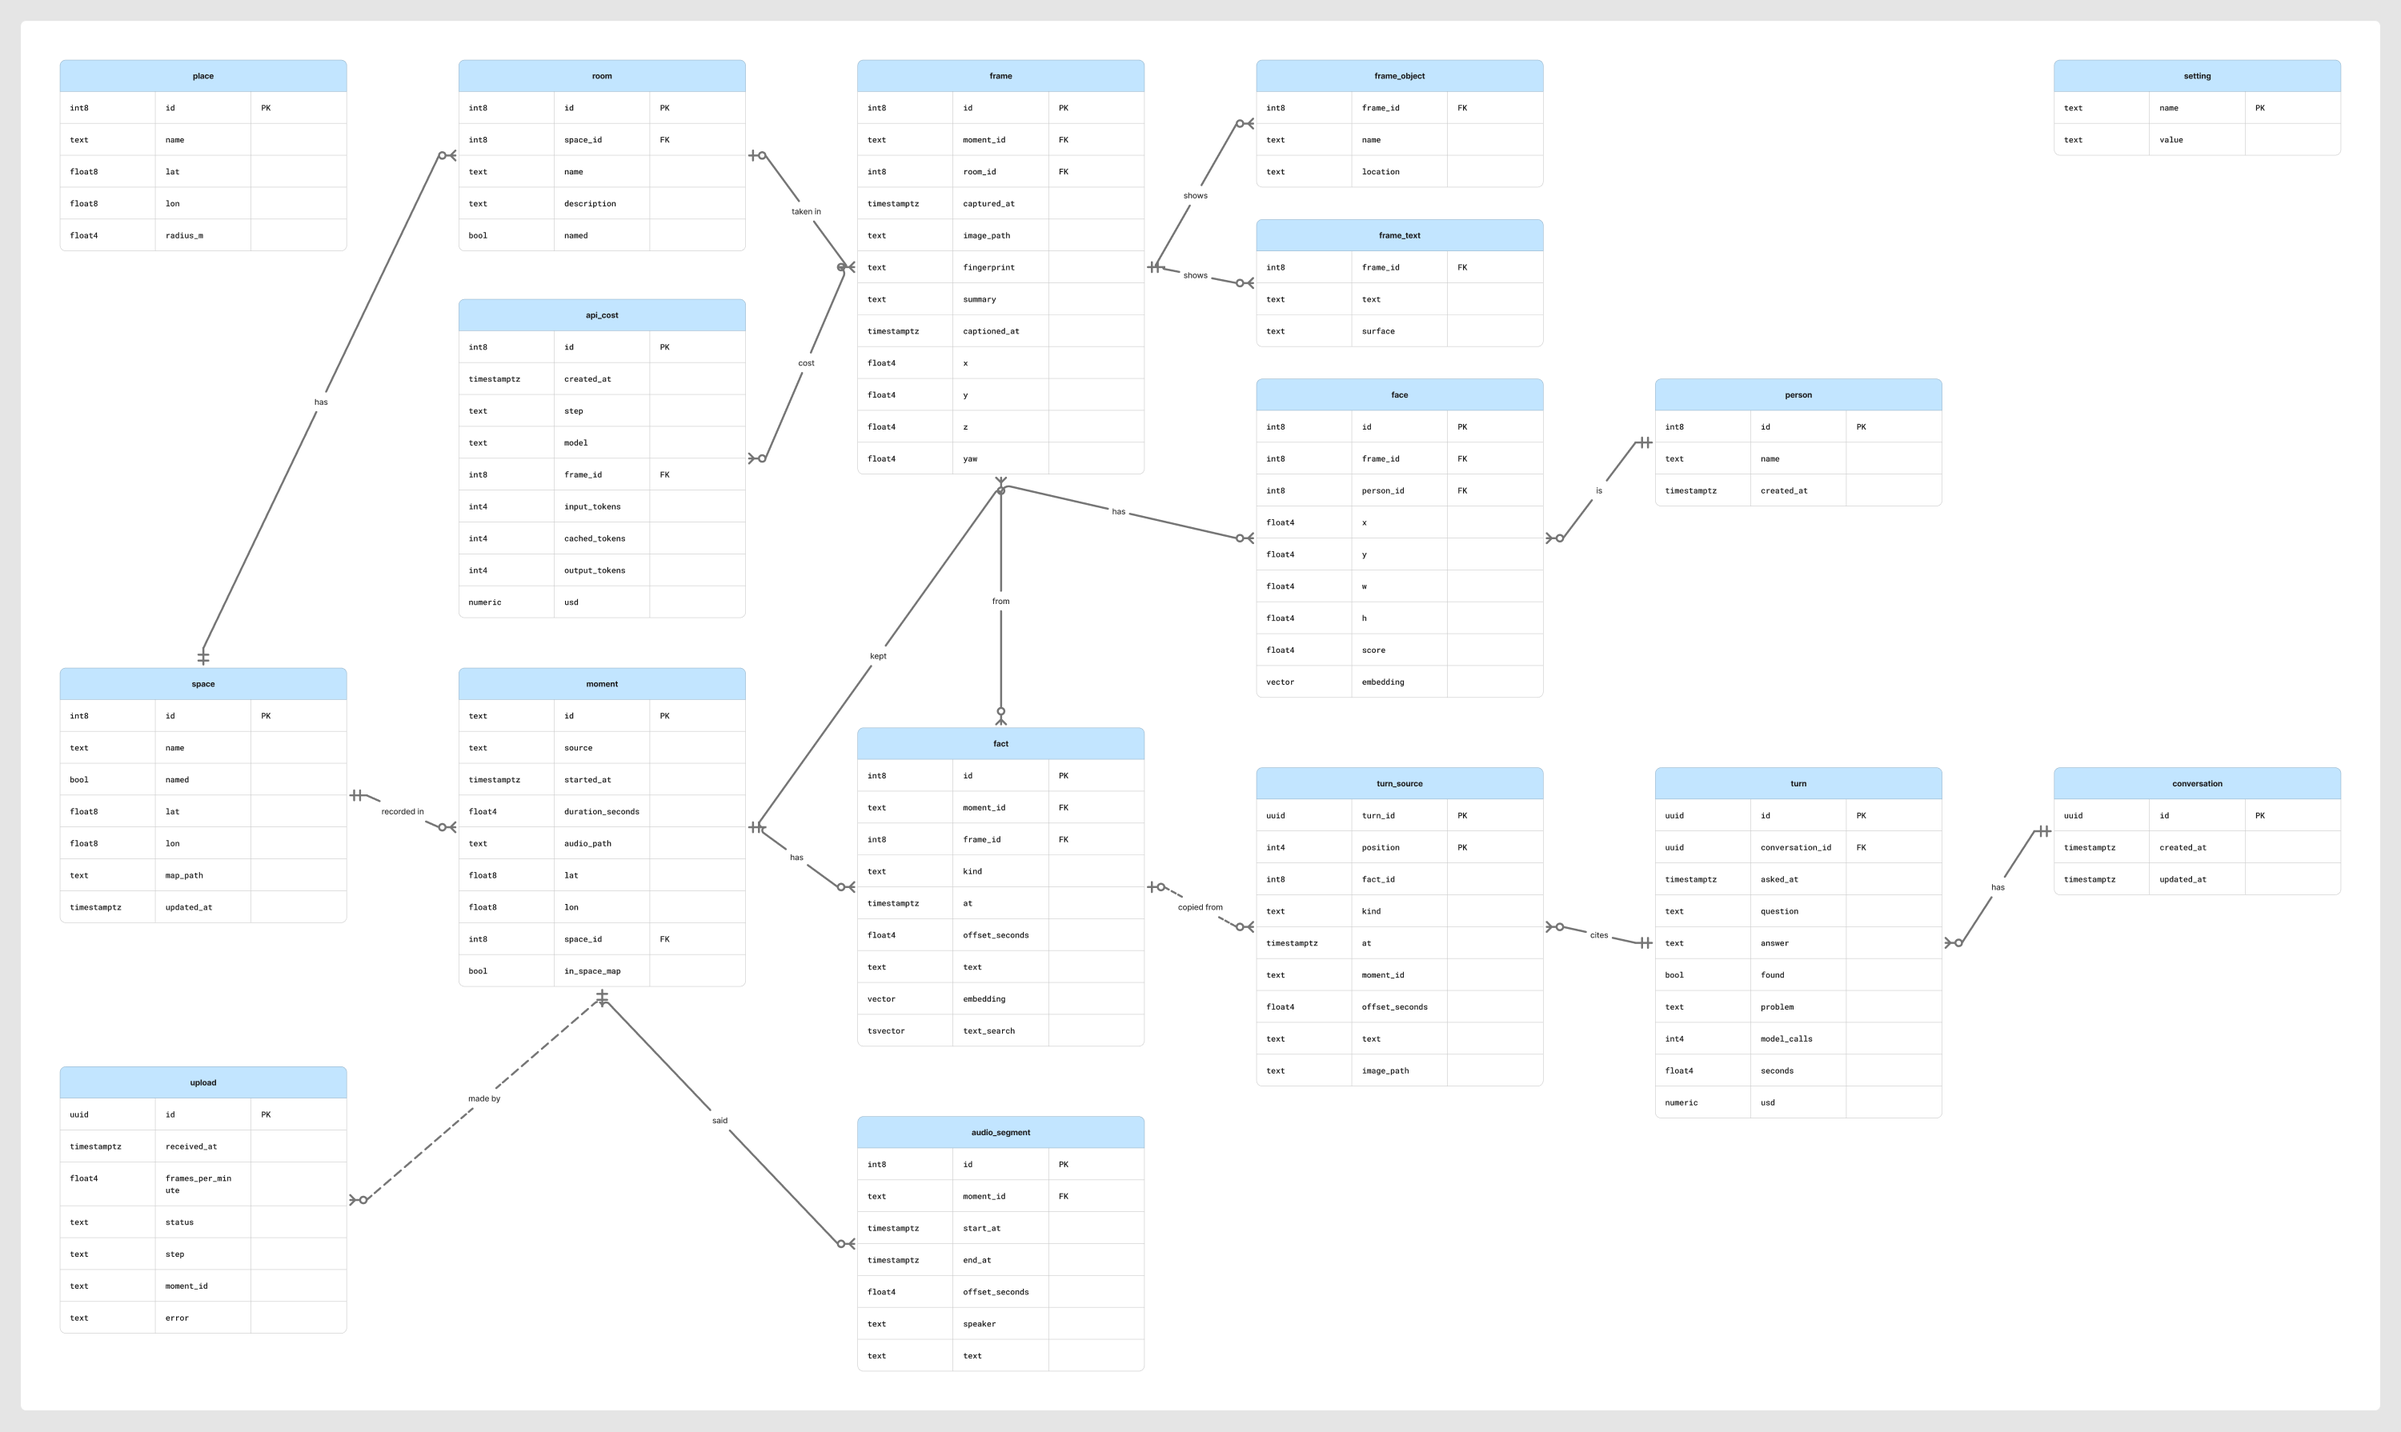
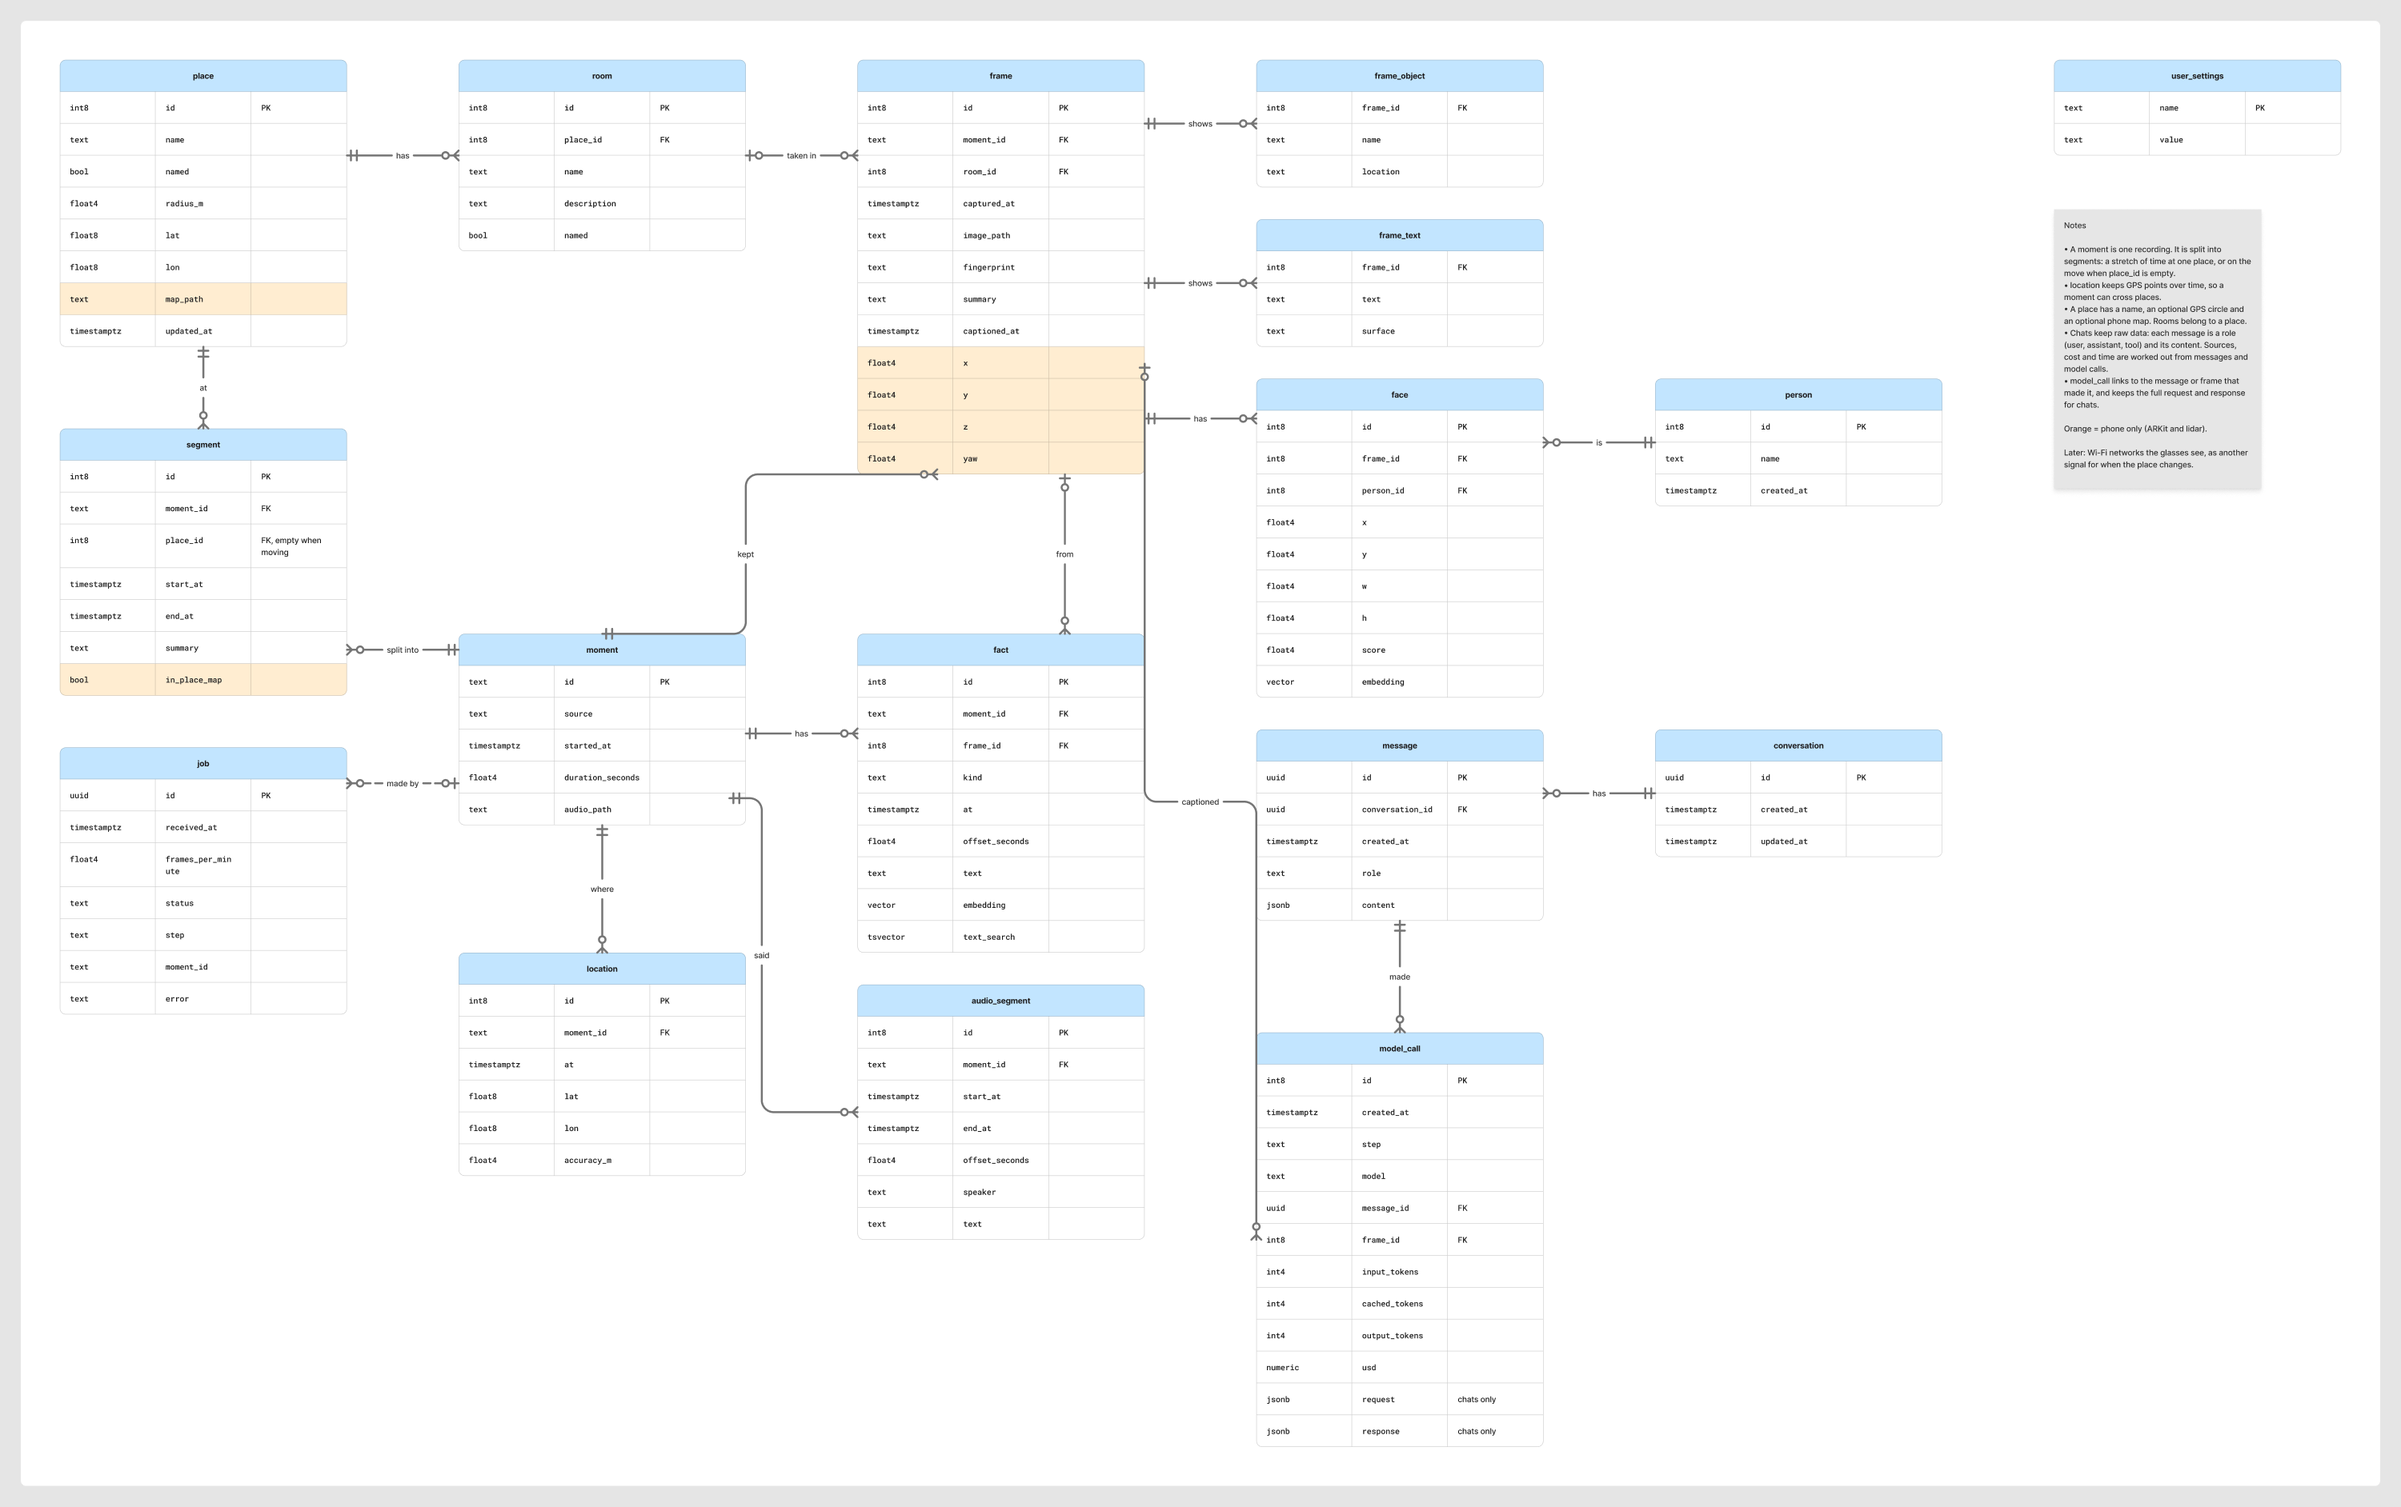
Remove the old ask endpoint and unused code; update the overview's data model

diff --git a/app/MemoryGlasses/API.swift b/app/MemoryGlasses/API.swift
@@ -173,17 +173,6 @@ struct GlassesStatus: Decodable {
     let processing: Int
 }
 
-struct PastExchange: Encodable {
-    let question: String
-    let answer: String
-}
-
-struct Question: Encodable {
-    let question: String
-    let plain: Bool
-    let history: [PastExchange]
-}
-
 enum APIError: LocalizedError {
     case badAddress
     case status(Int)

diff --git a/server/memory/api.py b/server/memory/api.py
@@ -20,7 +20,7 @@ from fastapi.responses import FileResponse, Response
 from pydantic import BaseModel, Field
 
 from memory import db, glasses, pipeline, rooms
-from memory.agent import ask_agent, ask_plain
+from memory.agent import ask_agent
 from memory.config import DATA_DIR, FRAMES_PER_MINUTE
 from memory.evals import RUNS_DIR
 from memory.ingest.facts import build_facts
@@ -38,17 +38,6 @@ MAX_FRAME_BYTES = 2_000_000
 CHECK_SECONDS = 15
 MIN_DISPLAY_SCALE = 0.3
 SENDING_SECONDS = 20
-
-
-class Exchange(BaseModel):
-    question: str
-    answer: str
-
-
-class Question(BaseModel):
-    question: str = Field(min_length=1)
-    plain: bool = False
-    history: list[Exchange] = Field(default=[], max_length=10)
 
 
 class ChatQuestion(BaseModel):
@@ -613,24 +602,6 @@ def image(path: str) -> FileResponse:
         raise HTTPException(404, "no such image")
 
     return FileResponse(file, media_type="image/jpeg")
-
-
-@app.post("/ask")
-def ask(body: Question, conn: psycopg.Connection = Depends(connection)) -> dict:
-    """Answer a question, with the facts the answer rests on."""
-    if body.plain:
-        result = ask_plain(conn, body.question)
-    else:
-        result = ask_agent(conn, body.question, history=[(item.question, item.answer) for item in body.history])
-
-    return {
-        "answer": result["answer"],
-        "found": result["found"],
-        "sources": [fact_json(fact) for fact in result["sources"]],
-        "model_calls": result["model_calls"],
-        "seconds": result["seconds"],
-        "usd": result["usd"],
-    }
 
 
 HISTORY_TURNS = 6

diff --git a/server/memory/db.py b/server/memory/db.py
@@ -603,13 +603,6 @@ def face_crop(conn: psycopg.Connection, face_id: int) -> tuple | None:
     ).fetchone()
 
 
-def captioned_images(conn: psycopg.Connection, moment_id: str) -> list[str]:
-    """Return the image paths of a moment's captioned frames."""
-    rows = conn.execute("select image_path from frame where moment_id = %s and captioned_at is not null", (moment_id,))
-
-    return [image_path for (image_path,) in rows]
-
-
 def moment_place(conn: psycopg.Connection, moment_id: str) -> dict | None:
     """Return the place of a moment's first segment, if known, and whether its positions are in the place's map."""
     row = conn.execute(

diff --git a/docs/PROJECT.md b/docs/PROJECT.md
@@ -49,13 +49,14 @@ How a question is answered:
 
 ![Data model](images/data-model.png)
 
-- A **moment** has many **frames** and **audio segments**.
+- A **moment** is one recording. It has many **frames** and **audio segments**, and is split into **segments**:
+  stretches of time at one **place**, or on the move. **location** keeps GPS points over time.
+- A **place** has a name, an optional GPS circle and an optional phone map, and holds **rooms**. Each frame is
+  placed in a room. Fields only the phone fills (ARKit positions and maps) are orange.
 - Frames have **objects**, **text seen** and **faces**; each face belongs to a **person**.
 - **Facts** come from frames or speech and carry the embeddings that search uses.
-- A **space** (an apartment, a lecture hall) holds **rooms**. Frames are placed in a room, and spaces can sit at
-  a named **place**.
-- **Conversations** have **turns** (a question and its answer), and each turn cites the facts it used.
-- **api_cost** logs every model call; **upload** tracks a recording while it processes.
+- **Conversations** keep every **message** raw: the question, tool calls, tool results and the answer.
+- **model_call** logs every model call and what made it; **job** tracks a recording while it processes.
 
 ## UX sketch
 
